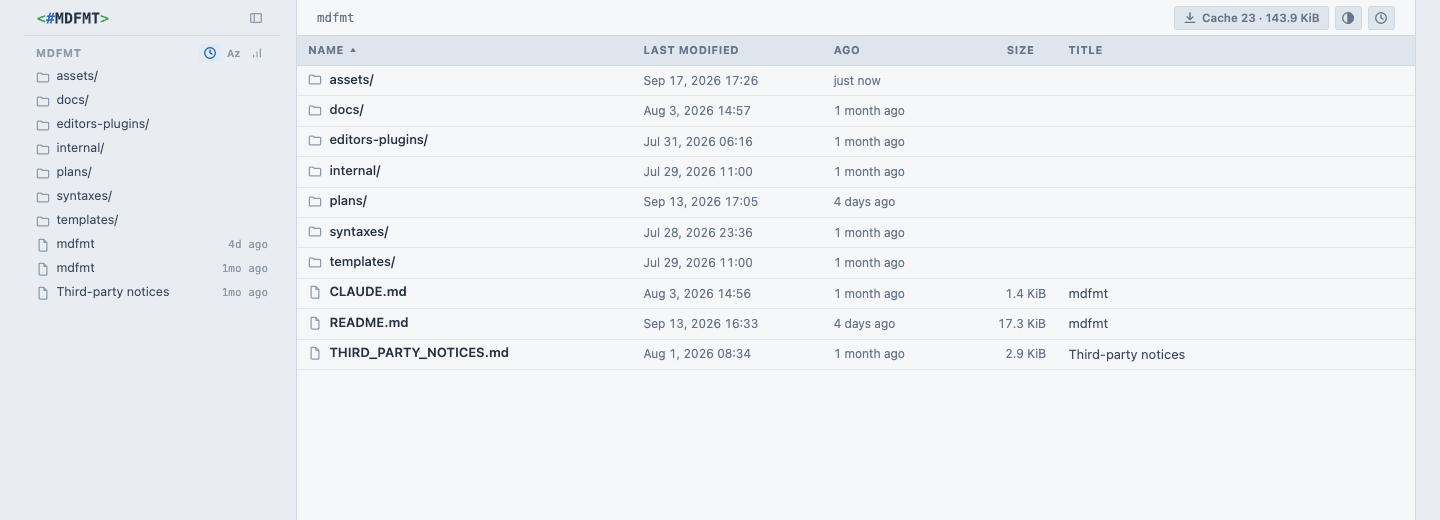
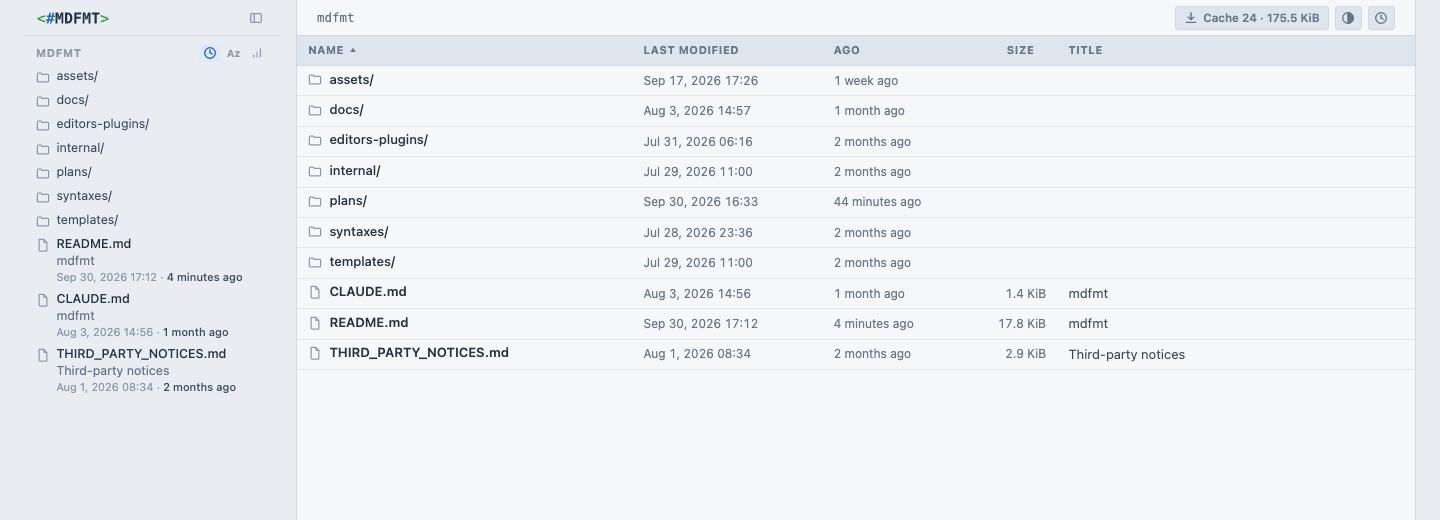
Show sidebar file entries on three lines with the filename and age emphasised
Each file entry in the left sidebar now stacks the filename, the title when
it says more than the filename, and the modification date with the age, or
with the size when sorting by size. Document pages under serve read sibling
titles through the title cache, as the directory page already does.

Claude-Session: https://claude.ai/code/session_01Wsg8FUZtFzp5zdfkbpA5SS

diff --git a/assets/style.css b/assets/style.css
@@ -163,8 +163,8 @@ html.nav-collapsed .left-sidebar .pane-head { justify-content: center; border-bo
 .sort-control button[aria-pressed="true"] { background: var(--accent-soft); color: var(--accent); }
 
 /* The entry detail follows the sort: size when sorting by size, else age. */
-[data-file-list]:not([data-sort="size"]) .detail.size,
-[data-file-list][data-sort="size"] .detail.age { display: none; }
+[data-file-list]:not([data-sort="size"]) .detail .size,
+[data-file-list][data-sort="size"] .detail .age { display: none; }
 
 .nav-entry {
   display: flex;
@@ -184,6 +184,19 @@ html.nav-collapsed .left-sidebar .pane-head { justify-content: center; border-bo
 .nav-entry .detail { color: var(--faint); font-family: var(--mono); font-size: 11px; }
 
 .nav-entry:hover { background: var(--hover); color: var(--text); text-decoration: none; }
+
+/* A file entry stacks its name, title and modification detail so each
+   string gets the full width of the sidebar. */
+.nav-entry.file { align-items: flex-start; height: auto; padding: .2rem .4rem; line-height: 1.35; }
+.nav-entry.file .icon { margin-top: .15rem; }
+.entry-lines { display: flex; flex: 1 1 auto; flex-direction: column; min-width: 0; }
+.entry-lines > * { overflow: hidden; text-overflow: ellipsis; }
+.nav-entry.file:not(.active) .name { color: var(--text); font-weight: 500; }
+.nav-entry.file .title { color: var(--muted); font-weight: 400; }
+.nav-entry.file .detail { font-family: inherit; font-weight: 400; }
+.nav-entry.file .detail > * + *::before { color: var(--faint); content: " · "; font-weight: 400; }
+.nav-entry.file .detail .age,
+.nav-entry.file .detail .size { color: var(--text-secondary); font-weight: 500; }
 
 .nav-entry.active { background: var(--accent-soft); color: var(--accent); font-weight: 600; }
 .nav-entry.active .icon { color: var(--accent); }

diff --git a/templates/page.html b/templates/page.html
@@ -168,7 +168,7 @@
       {{with .Parent}}<nav class="parent-navigation"><a class="nav-entry parent" href="{{.URL}}">{{template "icon-back"}}<span class="name">{{.Title}}</span></a></nav>{{end}}
       <nav data-file-list>
         {{range .Directories}}<a class="nav-entry directory" href="{{.URL}}">{{template "icon-folder"}}<span class="name">{{.Title}}/</span></a>{{end}}
-        {{range .Files}}<a class="nav-entry{{if .Active}} active{{end}}" href="{{.URL}}"{{if .Active}} aria-current="page"{{end}} title="{{.Name}}&#10;{{.Title}}&#10;{{.Modified}} · {{.Ago}} · {{.Size}}" data-name="{{.Name}}" data-modified="{{.SortModified}}" data-size="{{.SortSize}}">{{template "icon-file"}}<span class="name">{{.Title}}</span><time class="detail age" datetime="{{.ModifiedFull}}" data-relative-time data-relative-style="compact">{{.AgoCompact}}</time><span class="detail size">{{.Size}}</span></a>{{end}}
+        {{range .Files}}<a class="nav-entry file{{if .Active}} active{{end}}" href="{{.URL}}"{{if .Active}} aria-current="page"{{end}} title="{{.Name}}&#10;{{.Title}}&#10;{{.Modified}} · {{.Ago}} · {{.Size}}" data-name="{{.Name}}" data-modified="{{.SortModified}}" data-size="{{.SortSize}}">{{template "icon-file"}}<span class="entry-lines"><span class="name">{{.Name}}</span>{{if .HasTitle}}<span class="title">{{.Title}}</span>{{end}}<span class="detail"><span>{{.Modified}}</span><time class="age" datetime="{{.ModifiedFull}}" data-relative-time>{{.Ago}}</time><span class="size">{{.Size}}</span></span></span></a>{{end}}
       </nav>
     </aside>
 

diff --git a/server.go b/server.go
@@ -162,6 +162,11 @@ type navEntry struct {
 	Edit         *editAction
 }
 
+// HasTitle reports whether the title says more than the file name does.
+func (e navEntry) HasTitle() bool {
+	return e.Title != e.Name && e.Title != stem(e.Name)
+}
+
 // setModified fills the display and sort fields derived from an entry's
 // modification time.
 func (e *navEntry) setModified(modTime, now time.Time) {
@@ -647,7 +652,7 @@ func (s *markdownServer) serveMarkdownPage(w http.ResponseWriter, r *http.Reques
 	if !directoryInfo.IsDir() {
 		return &routeError{status: http.StatusNotFound, err: errors.New("not found")}
 	}
-	directories, files, err := s.listDirectory(directory, directoryComponents, components[len(components)-1], false)
+	directories, files, err := s.listDirectory(directory, directoryComponents, components[len(components)-1], true)
 	if err != nil {
 		return err
 	}

diff --git a/server_test.go b/server_test.go
@@ -907,8 +907,10 @@ func TestWebManifestAndReadingPositionMarkup(t *testing.T) {
 		`data-name="plain.md"`,
 		`data-modified="`,
 		`data-size="18"`,
-		`class="detail age"`,
-		`class="detail size"`,
+		`<span class="name">guide.md</span><span class="title">Guide</span>`,
+		`<span class="name">plain.md</span><span class="detail">`,
+		`<time class="age"`,
+		`<span class="size">`,
 	} {
 		if !strings.Contains(guide, want) {
 			t.Errorf("sidebar entry lacks %q:\n%s", want, guide)

diff --git a/README.md b/README.md
@@ -298,11 +298,14 @@ browser. Positions are stored in the browser's `localStorage`, keyed by the
 document's path relative to the site root, so they survive a rebuild with a
 new path token.
 
-The left sidebar lists the current folder's documents with their age. A
-small control in the folder heading sorts them by most recent first, the
-default, alphabetically, or largest first; the choice is remembered in the
-browser, separately from the directory listing's own sort. Hovering an entry
-shows its filename, title, modification date, age, and size. The button next
+The left sidebar stays in view while the document scrolls and lists the
+current folder's documents on up to three lines each: the filename, the
+title when it says more than the filename, and the modification date with
+the age, or with the size when sorting by size. A small control in the
+folder heading sorts them by most recent first, the default, alphabetically,
+or largest first; the choice is remembered in the browser, separately from
+the directory listing's own sort. Hovering an entry shows its filename,
+title, modification date, age, and size. The button next
 to the logo collapses the sidebar to a narrow rail, leaving more room for the
 document; the choice is remembered in the browser too.
 
